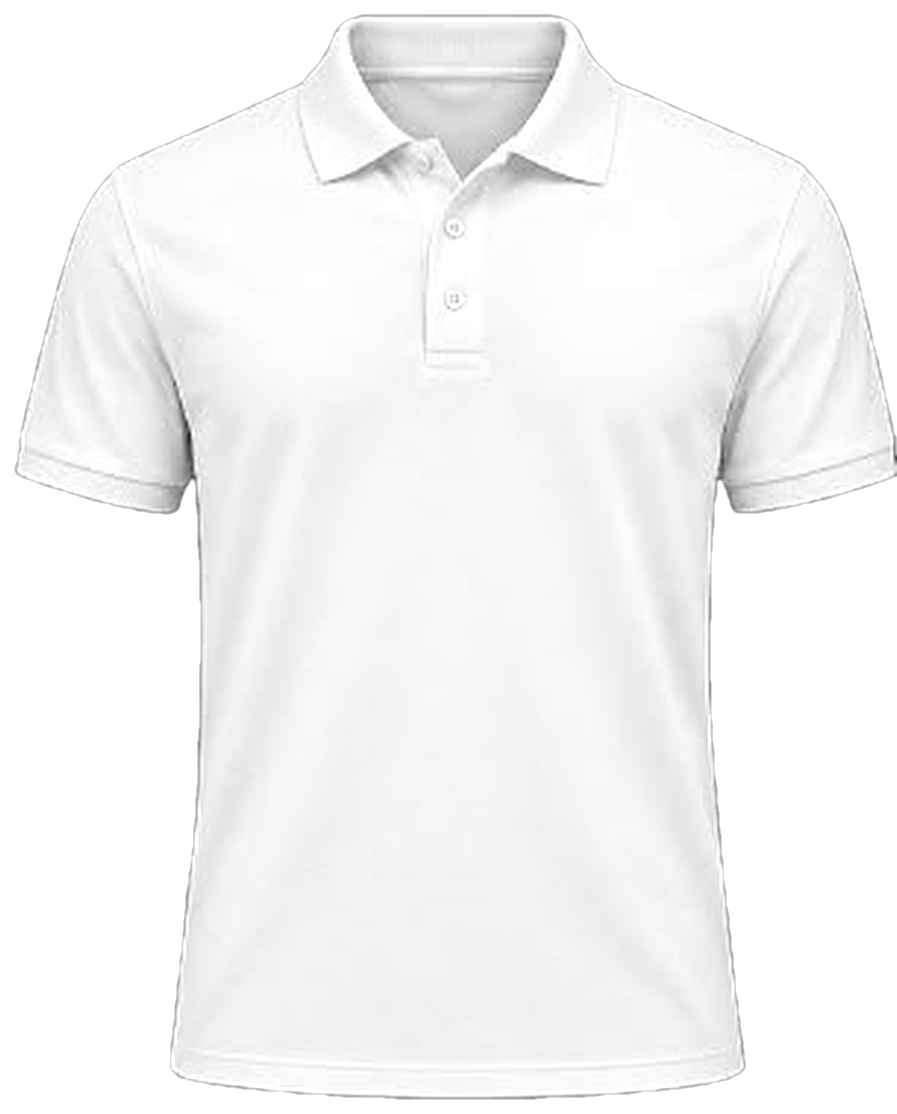
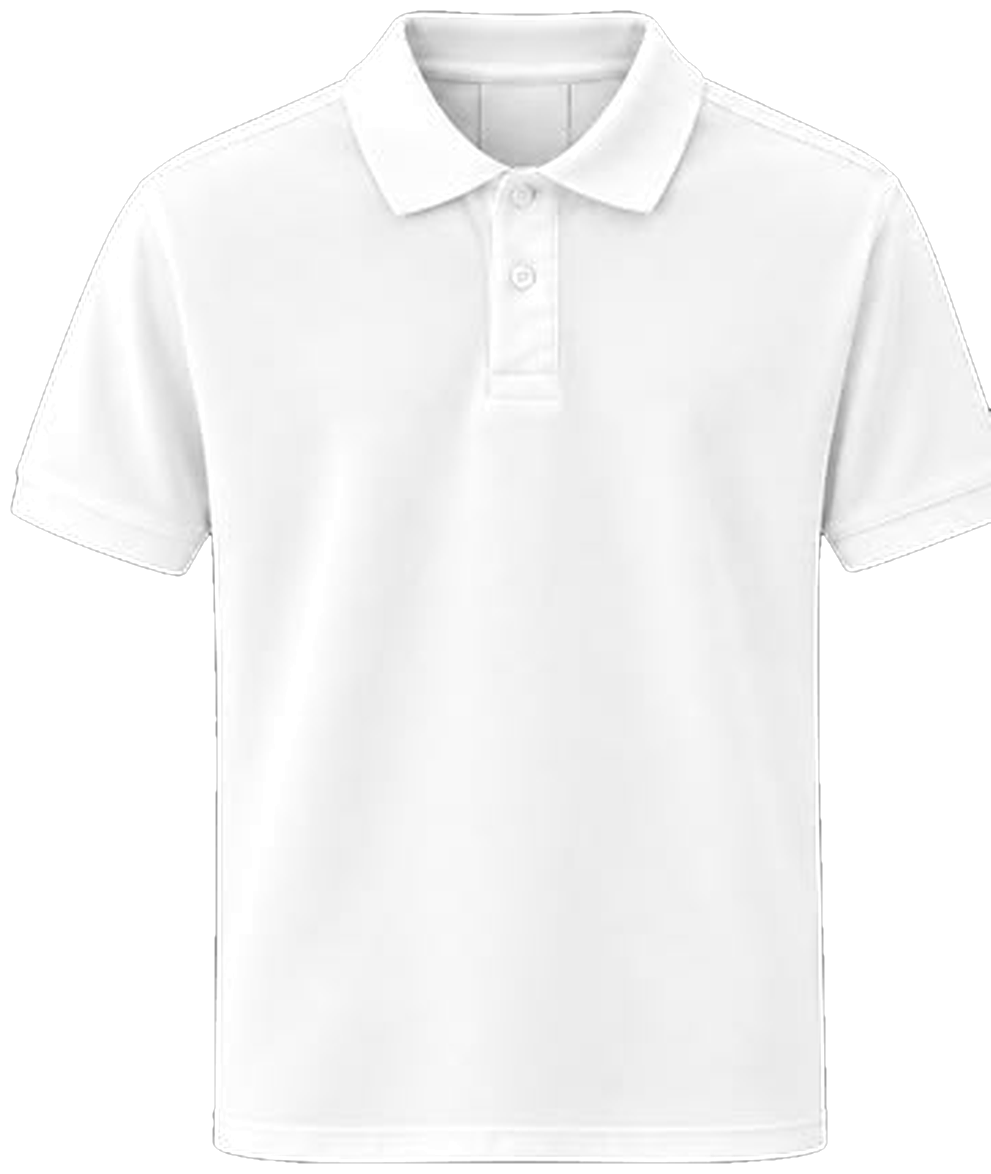
Polo: new photo mockup with colour-blocked shoulders, piping, tipped cuffs and club badge

diff --git a/js/mockup.js b/js/mockup.js
@@ -4,12 +4,12 @@
 (function () {
   var IMG = {
     "tee-front": [882, 926], "tee-back": [896, 938],
-    "polo-front": [897, 1114], "polo-back": [885, 1108],
+    "polo-front": [991, 1174], "polo-back": [974, 1173],
   };
   // Print zones as fractions of the image (chest = wearer's left, so viewer's right)
   var ZONE = {
     tee: { chest: [0.62, 0.27, 0.11], name: 0.2, num: 0.3, numH: 0.22, tag: 0.86, mid: 0.5 },
-    polo: { chest: [0.66, 0.30, 0.1], name: 0.19, num: 0.3, numH: 0.2, tag: 0.88, mid: 0.5 },
+    polo: { chest: [0.69, 0.37, 0.1], badge: [0.355, 0.375], name: 0.165, num: 0.33, numH: 0.19, tag: 0.9, mid: 0.5 },
   };
   var uid = 0;
   var esc = function (s) { return String(s || "").replace(/[&<>"]/g, function (c) { return { "&": "&amp;", "<": "&lt;", ">": "&gt;", '"': "&quot;" }[c]; }); };
@@ -22,7 +22,10 @@
     var line = w.numLine || w.tipA || w.trim || w.sash || "#FF5FA2";
     var accent = w.sash2 && w.sash2 !== body ? w.sash2 : w.yoke || w.sash || w.tipA || w.trim || "#FF5FA2";
     if (Math.abs(lum(ink) - lum(body)) < 0.25) ink = lum(body) > 0.5 ? "#3B2416" : "#FFF6EA";
-    return { body: body, ink: ink, line: line, accent: accent };
+    var panel = w.sash || w.yoke || w.tipA || "#FFF6EA";
+    if (panel.toLowerCase() === body.toLowerCase()) panel = lum(body) > 0.5 ? "#3B2416" : "#FFF6EA";
+    var pipe = w.sash2 || w.pipe || w.tipB || w.numLine || accent;
+    return { body: body, ink: ink, line: line, accent: accent, panel: panel, pipe: pipe };
   }
 
   function render(kind, o, ways) {
@@ -40,15 +43,36 @@
     // everything blends inside one isolated group, then the shirt silhouette cuts it out (clean dyed edges)
     s += '<g mask="url(#' + id + 'm)" style="isolation:isolate"><rect width="' + W + '" height="' + H + '" fill="#fff"/>';
     s += '<image href="' + src + '" xlink:href="' + src + '" width="' + W + '" height="' + H + '"/>';
-    s += '<rect width="' + W + '" height="' + H + '" fill="' + c.body + '" style="mix-blend-mode:multiply"/>';
+    var P = function (pts) { return pts.map(function (v, i) { return (i % 2 ? v * H : v * W).toFixed(1); }).join(" "); };
+    s += '<g style="mix-blend-mode:multiply"><rect width="' + W + '" height="' + H + '" fill="' + c.body + '"/>';
+    if (kind === "polo") {
+      if (!back) {
+        // shoulders + sleeves + chest wings, with the collar and placket left in the body colour
+        s += '<path fill="' + c.panel + '" d="M' + P([.38, .02]) + ' L' + P([.1, .1]) + ' L' + P([-.06, .25]) + ' L' + P([-.02, .44]) + ' L' + P([.21, .52]) + ' L' + P([.215, .315]) + ' Q' + P([.34, .29]) + ' ' + P([.41, .15]) + ' Z"/>';
+        s += '<path fill="' + c.panel + '" d="M' + P([.64, .02]) + ' L' + P([.9, .1]) + ' L' + P([1.06, .25]) + ' L' + P([1.03, .46]) + ' L' + P([.815, .47]) + ' L' + P([.795, .315]) + ' Q' + P([.66, .29]) + ' ' + P([.6, .15]) + ' Z"/>';
+      } else {
+        s += '<path fill="' + c.panel + '" d="M' + P([.33, 0]) + ' L' + P([.08, .1]) + ' L' + P([-.06, .25]) + ' L' + P([-.02, .44]) + ' L' + P([.2, .52]) + ' L' + P([.2, .33]) + ' Q' + P([.5, .2]) + ' ' + P([.8, .33]) + ' L' + P([.8, .52]) + ' L' + P([1.02, .44]) + ' L' + P([1.06, .25]) + ' L' + P([.92, .1]) + ' L' + P([.68, 0]) + ' Z"/>';
+      }
+    }
+    s += '</g>';
+    if (kind === "polo") {
+      var sw = (W * 0.006).toFixed(1);
+      s += back ? '<path fill="none" stroke="' + c.pipe + '" stroke-width="' + sw + '" d="M' + P([.2, .335]) + ' Q' + P([.5, .205]) + ' ' + P([.8, .335]) + '"/>'
+        : '<path fill="none" stroke="' + c.pipe + '" stroke-width="' + sw + '" d="M' + P([.215, .32]) + ' Q' + P([.34, .295]) + ' ' + P([.412, .155]) + ' M' + P([.79, .32]) + ' Q' + P([.66, .295]) + ' ' + P([.598, .155]) + '"/>';
+      // tipped cuffs: two thin stripes on each sleeve end
+      [[[.0, .405], [.205, .455]], [[1.0, .405], [.795, .455]]].forEach(function (cf) {
+        [0, .014].forEach(function (dy) { s += '<path stroke="' + (dy ? c.pipe : c.body) + '" stroke-width="' + (W * 0.007).toFixed(1) + '" d="M' + P([cf[0][0], cf[0][1] + dy]) + ' L' + P([cf[1][0], cf[1][1] + dy]) + '"/>'; });
+      });
+    }
     // 3) the print, inside the shirt only
     s += '<g><g filter="url(#' + id + 'ink)">';
     // The Kitchen Line: one stripe at the height of the 7 ft non-volley line, front and back.
     // 1-of-1: a single pickleball sits on the line, at a spot set by the player's name.
     var r = rng(code + (o.name || "")), ly = H * (back ? 0.68 : 0.7), lh = H * 0.02, gold = "url(#" + id + "g)", line = o.edition ? gold : c.accent;
-    s += '<rect x="0" y="' + ly.toFixed(1) + '" width="' + W + '" height="' + lh.toFixed(1) + '" fill="' + line + '"/>';
-    s += '<rect x="0" y="' + (ly + lh * 1.7).toFixed(1) + '" width="' + W + '" height="' + (lh * 0.18).toFixed(1) + '" fill="' + c.ink + '" opacity=".55"/>';
-    s += '<text x="' + (W * (back ? 0.27 : 0.73)).toFixed(1) + '" y="' + (ly + lh * 0.72).toFixed(1) + '" text-anchor="middle" font-family="DM Sans, sans-serif" font-weight="700" font-size="' + (lh * 0.62).toFixed(1) + '" letter-spacing="' + (lh * 0.22).toFixed(1) + '" fill="' + c.ink + '" opacity=".8">NON-VOLLEY · 7 FT</text>';
+    var kl = back || kind !== "polo";
+    if (kl) s += '<rect x="0" y="' + ly.toFixed(1) + '" width="' + W + '" height="' + lh.toFixed(1) + '" fill="' + line + '"/>';
+    if (kl) s += '<rect x="0" y="' + (ly + lh * 1.7).toFixed(1) + '" width="' + W + '" height="' + (lh * 0.18).toFixed(1) + '" fill="' + c.ink + '" opacity=".55"/>';
+    if (kl) s += '<text x="' + (W * (back ? 0.27 : 0.73)).toFixed(1) + '" y="' + (ly + lh * 0.72).toFixed(1) + '" text-anchor="middle" font-family="DM Sans, sans-serif" font-weight="700" font-size="' + (lh * 0.62).toFixed(1) + '" letter-spacing="' + (lh * 0.22).toFixed(1) + '" fill="' + c.ink + '" opacity=".8">NON-VOLLEY · 7 FT</text>';
     if (back) {
       var bx = W * (0.5 + (r() - 0.5) * 0.36), br = lh * 1.05, holes = "";
       for (var k = 0; k < 6; k++) { var an = k * 60 + r() * 20, rr = br * 0.55; holes += '<circle cx="' + (Math.cos(an * Math.PI / 180) * rr).toFixed(1) + '" cy="' + (Math.sin(an * Math.PI / 180) * rr).toFixed(1) + '" r="' + (br * 0.13).toFixed(1) + '"/>'; }
@@ -57,12 +81,19 @@
     if (!back) {
       var cx = W * z.chest[0], cy = H * z.chest[1], cw = W * z.chest[2];
       s += '<image href="/assets/logo.svg" xlink:href="/assets/logo.svg" x="' + (cx - cw / 2).toFixed(1) + '" y="' + (cy - cw / 2).toFixed(1) + '" width="' + cw.toFixed(1) + '" height="' + cw.toFixed(1) + '"/>';
-      s += '<text x="' + cx.toFixed(1) + '" y="' + (cy + cw * 0.78).toFixed(1) + '" text-anchor="middle" font-family="Fredoka, sans-serif" font-weight="700" font-size="' + (cw * 0.2).toFixed(1) + '" fill="' + c.ink + '" letter-spacing="1">DINKIN’ DONUT</text>';
+      if (kind !== "polo") s += '<text x="' + cx.toFixed(1) + '" y="' + (cy + cw * 0.78).toFixed(1) + '" text-anchor="middle" font-family="Fredoka, sans-serif" font-weight="700" font-size="' + (cw * 0.2).toFixed(1) + '" fill="' + c.ink + '" letter-spacing="1">DINKIN’ DONUT</text>';
+      if (kind === "polo" && z.badge) {
+        var bx2 = W * z.badge[0], by2 = H * z.badge[1];
+        s += '<text x="' + bx2.toFixed(1) + '" y="' + by2.toFixed(1) + '" text-anchor="middle" font-family="Fredoka, sans-serif" font-weight="700" font-size="' + (W * 0.026).toFixed(1) + '" fill="' + c.ink + '" letter-spacing="1">DINKIN’ DONUT</text>';
+        s += '<text x="' + bx2.toFixed(1) + '" y="' + (by2 + W * 0.03).toFixed(1) + '" text-anchor="middle" font-family="DM Sans, sans-serif" font-weight="700" font-size="' + (W * 0.015).toFixed(1) + '" fill="' + c.ink + '" opacity=".8" letter-spacing="3">PICKLEBALL CLUB</text>';
+        s += '<rect x="' + (bx2 - W * 0.07).toFixed(1) + '" y="' + (by2 + W * 0.044).toFixed(1) + '" width="' + (W * 0.14).toFixed(1) + '" height="' + (W * 0.004).toFixed(1) + '" fill="' + c.pipe + '"/>';
+      }
       if (o.edition) { var lw = W * 0.11, lx = W * 0.3, lyy = H * 0.86; s += '<g transform="translate(' + lx.toFixed(1) + " " + lyy.toFixed(1) + ')"><rect x="' + (-lw / 2) + '" y="' + (-lw * 0.2) + '" width="' + lw + '" height="' + lw * 0.4 + '" rx="' + lw * 0.06 + '" fill="' + gold + '"/><text y="' + (lw * 0.09).toFixed(1) + '" text-anchor="middle" font-family="Fredoka, sans-serif" font-weight="700" font-size="' + (lw * 0.22).toFixed(1) + '" fill="#3B2416" letter-spacing="1">THE 20</text></g>'; }
-      if (o.print === "club" || o.tag) s += '<text x="' + cx.toFixed(1) + '" y="' + (cy + cw * 1.02).toFixed(1) + '" text-anchor="middle" font-family="DM Sans, sans-serif" font-weight="700" font-size="' + (cw * 0.13).toFixed(1) + '" fill="' + c.ink + '" opacity=".75" letter-spacing="3">' + esc(o.tag || "DOHA") + "</text>";
+      if (o.print === "club" || o.tag) s += '<text x="' + cx.toFixed(1) + '" y="' + (cy + (kind === "polo" ? cw * 0.8 : cw * 1.02)).toFixed(1) + '" text-anchor="middle" font-family="DM Sans, sans-serif" font-weight="700" font-size="' + (cw * 0.13).toFixed(1) + '" fill="' + c.ink + '" opacity=".75" letter-spacing="3">' + esc(o.tag || "DOHA") + "</text>";
     } else {
       var name = String(o.name || "").toUpperCase().slice(0, 12), num = String(o.num == null ? "" : o.num).slice(0, 2), mid = W * z.mid;
-      if (name) s += '<text x="' + mid + '" y="' + (H * z.name).toFixed(1) + '" text-anchor="middle" font-family="Fredoka, sans-serif" font-weight="700" font-size="' + (W * (name.length > 8 ? 0.05 : 0.058)).toFixed(1) + '" fill="' + c.ink + '" letter-spacing="' + (W * 0.016).toFixed(1) + '">' + esc(name) + "</text>";
+      var nameInk = kind === "polo" ? (Math.abs(lum(c.panel) - lum(c.body)) > 0.3 ? c.body : (lum(c.panel) > 0.5 ? "#3B2416" : "#FFF6EA")) : c.ink;
+      if (name) s += '<text x="' + mid + '" y="' + (H * z.name).toFixed(1) + '" text-anchor="middle" font-family="Fredoka, sans-serif" font-weight="700" font-size="' + (W * (name.length > 8 ? 0.05 : 0.058)).toFixed(1) + '" fill="' + nameInk + '" letter-spacing="' + (W * 0.016).toFixed(1) + '">' + esc(name) + "</text>";
       if (num) s += '<text x="' + mid + '" y="' + (H * (z.num + z.numH * 0.62)).toFixed(1) + '" text-anchor="middle" font-family="Fredoka, sans-serif" font-weight="700" font-size="' + (H * z.numH).toFixed(1) + '" fill="' + c.ink + '" stroke="' + c.line + '" stroke-width="' + (W * 0.012).toFixed(1) + '" paint-order="stroke" stroke-linejoin="round">' + esc(num) + "</text>";
       if (!name && !num) s += '<image href="/assets/logo.svg" xlink:href="/assets/logo.svg" x="' + (mid - W * 0.14) + '" y="' + (H * 0.26) + '" width="' + W * 0.28 + '" height="' + W * 0.28 + '"/>';
       var ty = H * z.tag, tw = W * 0.26, th = H * 0.034;
